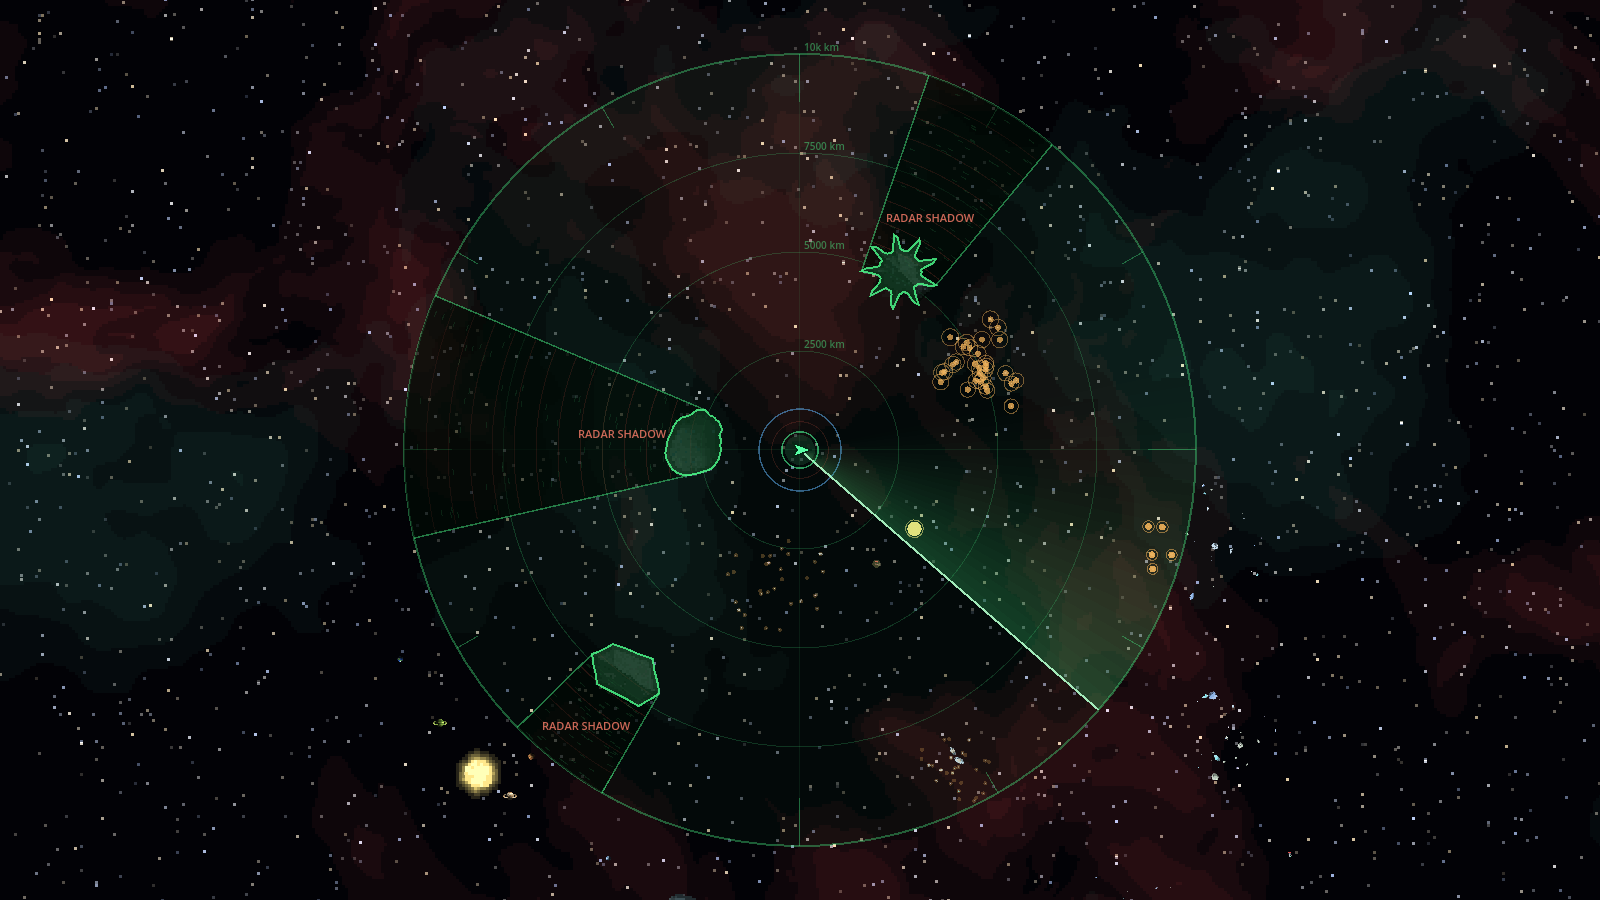
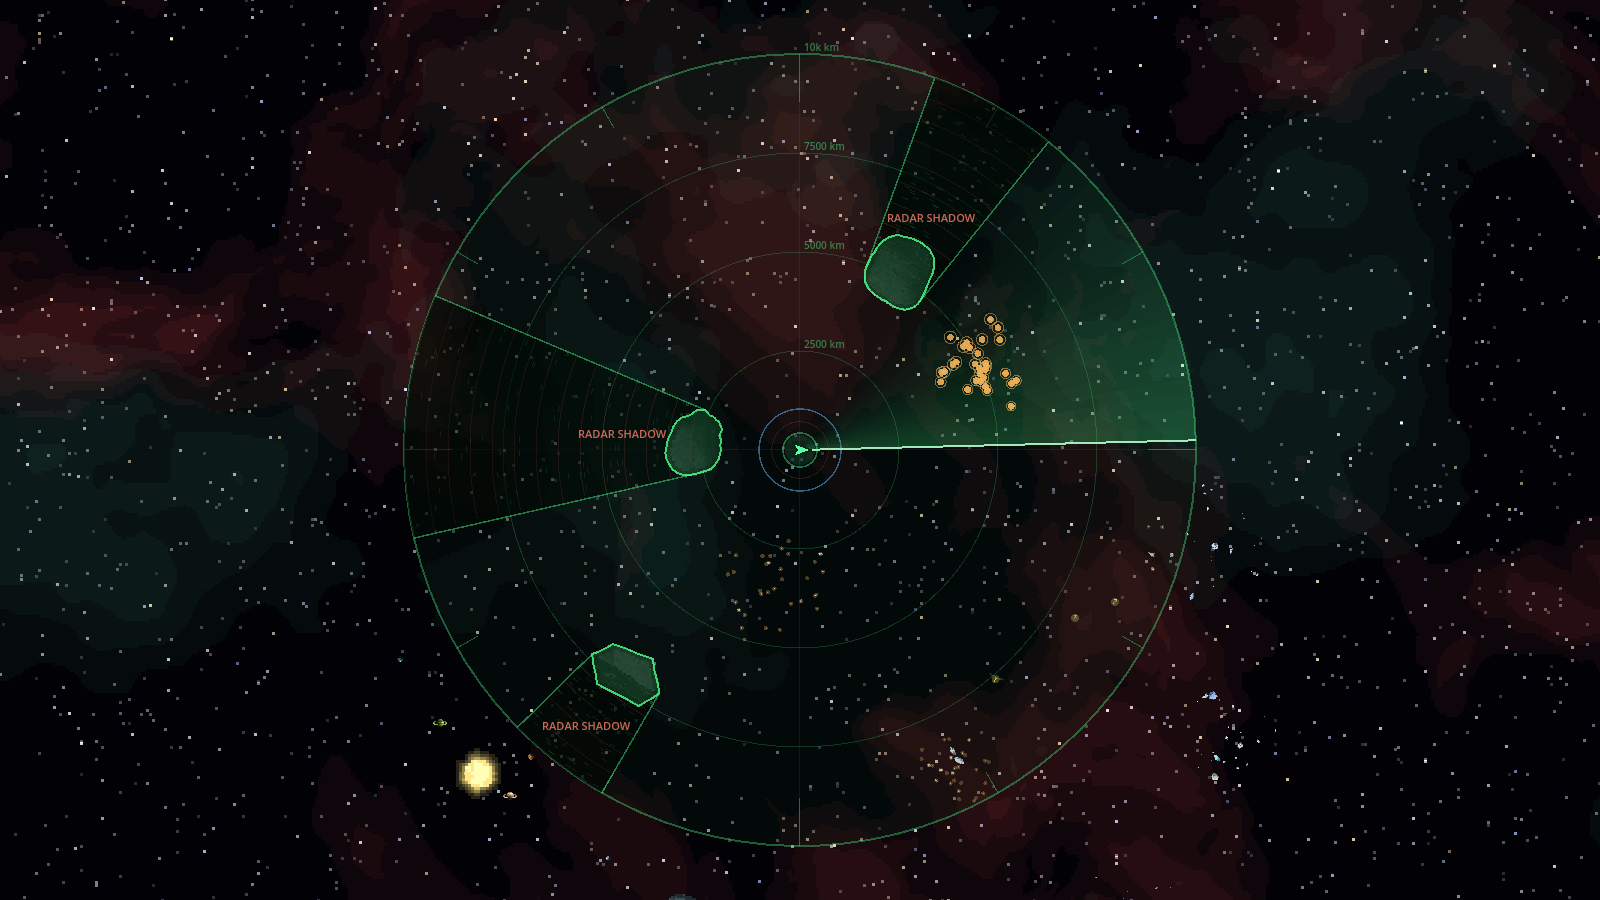
alpha 0.6.35.6: the spiked ice colossus is a rounded ice ball

Changed region(s): [[0.5, 0.3422, 0.75, 0.7778], [0.5312, 0.2178, 0.625, 0.3422]]

diff --git a/Roadmap.md b/Roadmap.md
@@ -17,7 +17,7 @@ Sternenfront ist ein Einzelspieler-Spiel mit zuschaltbarem Koop – wie Valheim 
 
 ## Aktueller Stand
 
-Das Spiel ist ein umfangreicher Einzelspieler-Prototyp in Godot 4.3. Phase 0 und Phase 0.5 Teil 1 bis 3 sind abgeschlossen; Teil 4 (Module and Internal Ship Parts Rework) läuft – Pakete 19 bis 24 fertig, Pakete 25a (KHI-Bergbauschiffe), 25b (Kanayama-maru), 25c (Maison Aurelle), 25d (Hadrian Dynamics), 25e (Concord Fleetworks), 25f (Forge of Return) und 25g (Axiom Astronautics) fertig – damit sind alle Manufakturen gebaut; Paket 26 (Stationstyp 0: Raststationen mit Landeplattformen) fertig; Paket 27 (Stationsübersicht, Ausrüster, Kurzbeschreibungen, Geschwindigkeit) fertig – damit sind alle Pakete von Teil 4 umgesetzt. Code-Review von Teil 4 gemacht (Bericht `reviews/teil4_review.md`), alle Befunde sind abgearbeitet (0.4.25.46 und 0.4.25.47) – Teil 4 abgeschlossen. **Teil 5 läuft:** Paket 28a (Audio-Grundgerüst), die Menüsteuerung per Tastatur und Paket 28 (Pilot & Charaktererstellung) und Paket 29 (Fähigkeiten + Pilot-Fenster) fertig, Fortschritts-Mechanik am 7. Nov neu entschieden (Fähigkeiten automatisch, Pilotenlevel, Perks, Skilltree über Leistungen); Paket 30 (Perks, Skilltree über Leistungen, Baupläne) fertig und der Skilltree in 0.5.30.2 als gezeichneter Baum nach Tätigkeiten neu gebaut (alles kaufbar, nutzbar erst mit Kachel), Paket 31 (Crew-System & The Bar, mit 32 zusammengelegt) fertig, Paket 31a (Game Over: Rettungskapseln, Rückkauf, Respawn) fertig, Paket 33 (Wingmen und Citadel-Plattform) fertig, Paket 34 (Codex-Einträge, Sammlung, berüchtigte Piraten als Charaktere mit Wild-West-Steckbrief) fertig – damit sind alle Pakete von Teil 5 umgesetzt. Code-Review von Teil 5 gemacht (Bericht `reviews/teil5_review.md`), alle Befunde in 0.5.34.4 behoben – **Teil 5 abgeschlossen**. **Teil 6 läuft:** Paket 35 (Systeme ×3, Asteroiden- und Kuipergürtel, neue Asteroidenfelder, mehr Verkehr, Ladebildschirm und Vorladen) fertig. Netzwerk fehlt noch. Teile 5–9 sind geplant (aus dem Roadmap-Entwurf übernommen, zuletzt am 7. Nov 2026: Teile 8 und 9, Audio-Grundgerüst 28a, Lade-Grundlagen in Paket 35, Code-Review am Ende jedes Teils), Phase 1 und 2 getauscht (erst Story & Endgame, dann Koop). Version alpha 0.6.35.5. Stand 8. November 2026.
+Das Spiel ist ein umfangreicher Einzelspieler-Prototyp in Godot 4.3. Phase 0 und Phase 0.5 Teil 1 bis 3 sind abgeschlossen; Teil 4 (Module and Internal Ship Parts Rework) läuft – Pakete 19 bis 24 fertig, Pakete 25a (KHI-Bergbauschiffe), 25b (Kanayama-maru), 25c (Maison Aurelle), 25d (Hadrian Dynamics), 25e (Concord Fleetworks), 25f (Forge of Return) und 25g (Axiom Astronautics) fertig – damit sind alle Manufakturen gebaut; Paket 26 (Stationstyp 0: Raststationen mit Landeplattformen) fertig; Paket 27 (Stationsübersicht, Ausrüster, Kurzbeschreibungen, Geschwindigkeit) fertig – damit sind alle Pakete von Teil 4 umgesetzt. Code-Review von Teil 4 gemacht (Bericht `reviews/teil4_review.md`), alle Befunde sind abgearbeitet (0.4.25.46 und 0.4.25.47) – Teil 4 abgeschlossen. **Teil 5 läuft:** Paket 28a (Audio-Grundgerüst), die Menüsteuerung per Tastatur und Paket 28 (Pilot & Charaktererstellung) und Paket 29 (Fähigkeiten + Pilot-Fenster) fertig, Fortschritts-Mechanik am 7. Nov neu entschieden (Fähigkeiten automatisch, Pilotenlevel, Perks, Skilltree über Leistungen); Paket 30 (Perks, Skilltree über Leistungen, Baupläne) fertig und der Skilltree in 0.5.30.2 als gezeichneter Baum nach Tätigkeiten neu gebaut (alles kaufbar, nutzbar erst mit Kachel), Paket 31 (Crew-System & The Bar, mit 32 zusammengelegt) fertig, Paket 31a (Game Over: Rettungskapseln, Rückkauf, Respawn) fertig, Paket 33 (Wingmen und Citadel-Plattform) fertig, Paket 34 (Codex-Einträge, Sammlung, berüchtigte Piraten als Charaktere mit Wild-West-Steckbrief) fertig – damit sind alle Pakete von Teil 5 umgesetzt. Code-Review von Teil 5 gemacht (Bericht `reviews/teil5_review.md`), alle Befunde in 0.5.34.4 behoben – **Teil 5 abgeschlossen**. **Teil 6 läuft:** Paket 35 (Systeme ×3, Asteroiden- und Kuipergürtel, neue Asteroidenfelder, mehr Verkehr, Ladebildschirm und Vorladen) fertig. Netzwerk fehlt noch. Teile 5–9 sind geplant (aus dem Roadmap-Entwurf übernommen, zuletzt am 7. Nov 2026: Teile 8 und 9, Audio-Grundgerüst 28a, Lade-Grundlagen in Paket 35, Code-Review am Ende jedes Teils), Phase 1 und 2 getauscht (erst Story & Endgame, dann Koop). Version alpha 0.6.35.6. Stand 8. November 2026.
 
 | Bereich | Stand |
 | --- | --- |
@@ -1460,7 +1460,7 @@ Jedes Paket mit eigenen Debug-Funktionen (z. B. zu jedem Systemtyp springen, Ste
 - [x] **Asteroidengürtel** (80 % der Systeme, zwischen den Gesteinsplaneten und dem ersten Gasriesen) und **Kuipergürtel** (70 %, außen bei ~84 % des Radius): auf der Systemkarte als Band aus feinen Körnern, aus der Nähe ziehen **dunklere Brocken mit Parallaxe im Hintergrund** vorbei (nicht abbaubar).
 - [x] **Asteroidenfelder neu:** Metall- und Gesteinsfelder liegen **im Asteroidengürtel**, Eisfelder **im Kuipergürtel** (ohne Gürtel wie bisher in Bahnzonen). Radius 20.000–40.000 km statt 10.000–16.000, im Schnitt dichter (≈ 0,22 Brocken je 1.000 km², eng geklumpt) und in **fünf Stilen**: Clustered, Band (entlang der Bahn gestreckt), Dense Core (dichter Kern mit mehr großen Brocken), Boulder Field (wenige große) und Gravel Field (viele kleine). Der Stil steht im Feldnamen.
 - [x] **0.6.35.4 (Wunsch Luz):** Felder **kompakter und strukturierter** – Radius 12.000–22.000 km, darin viele kleine Strukturen (dichte Knoten, Haufen, Ketten) mit freien Flächen dazwischen; etwa 0,9 Brocken je 1.000 km², an manchen Stellen sehr dicht. **Mehr Colossi:** jedes Feld hat jetzt 3–5 (in gesetzlosen Systemen einen mehr), über das Feld verteilt.
-- [x] **0.6.35.5 (Wunsch Luz):** **Radarschatten** enden jetzt am Rand der Radarreichweite. **Zwei neue Colossus-Formen je Gesteinsart** (mit passendem Radarschatten): Metall – Platte und Spindel, Gestein – Geröllhaufen und Niere, Eis – Tropfen (gefrorener Komet) und Kristall mit Stacheln. **Colossi sind abbaubar** (sperrbar, Prospektor und Bergbaulaser, Abstand zur Oberfläche zählt): riesiger Vorrat aus zwei Erzen des Feldes; leer bleiben sie stehen und zeigen im Scanner „empty“. **Kleine Asteroiden zerbrechen**, wenn sie leer sind – die Stücke treiben auseinander und verblassen – und wachsen nach **30–60 Minuten** nach (gewichteter Zufall, kleinere eher). Leere Colossi und zerbrochene Asteroiden werden mitgespeichert.
+- [x] **0.6.35.5 (Wunsch Luz):** **Radarschatten** enden jetzt am Rand der Radarreichweite. **Zwei neue Colossus-Formen je Gesteinsart** (mit passendem Radarschatten): Metall – Platte und Spindel, Gestein – Geröllhaufen und Niere, Eis – Tropfen (gefrorener Komet) und Kristall mit Stacheln (seit 0.6.35.6 eine runde Eiskugel mit sanften Beulen – die Sternform war zu viel). **Colossi sind abbaubar** (sperrbar, Prospektor und Bergbaulaser, Abstand zur Oberfläche zählt): riesiger Vorrat aus zwei Erzen des Feldes; leer bleiben sie stehen und zeigen im Scanner „empty“. **Kleine Asteroiden zerbrechen**, wenn sie leer sind – die Stücke treiben auseinander und verblassen – und wachsen nach **30–60 Minuten** nach (gewichteter Zufall, kleinere eher). Leere Colossi und zerbrochene Asteroiden werden mitgespeichert.
 - [x] **Mehr Verkehr:** Shuttles, Bergbauschiffe, wartende Frachter, Feld- und Torwachen, Piraten etwa anderthalbfach; Obergrenze 60 → 90 Schiffe je System.
 - [x] **Laden:** kurzer **Ladebildschirm** beim Start aus dem Hauptmenü; dahinter werden alle Asteroidenbilder des Systems vorab erzeugt und der **Colossus-Shader vorkompiliert** – der Ruckler beim Einfliegen in Felder mit Colossi ist weg. Beim **Hypersprung** wird das Zielsystem während des Tunnels vorbereitet. Unsichtbare Asteroiden kosten keine Rechenzeit mehr.
 - [x] **0.6.35.2/.3:** Die Systemkarte ist wieder **auf das eigene Schiff zentriert** – Godots Standard-Kameragrenze von ±10 Mio. km hatte die Karte der größeren Systeme zur Seite geschoben (die kurzzeitige Zentrierung auf den Stern in 0.6.35.2 ist wieder raus).

diff --git a/CHANGELOG.md b/CHANGELOG.md
@@ -3,6 +3,10 @@
 Versions follow **alpha Phase.Teil.Paket.laufende Nummer** (see Roadmap.md → Arbeitsweise & Übergabe).
 Every update gets its own entry, a commit and a git tag `v<version>`.
 
+## alpha 0.6.35.6 – 2026-11-08
+
+**Ice colossus:** the spiked crystal is now a rounded ice ball with soft bulges.
+
 ## alpha 0.6.35.5 – 2026-11-08
 
 - Radar shadows end at the radar range.
